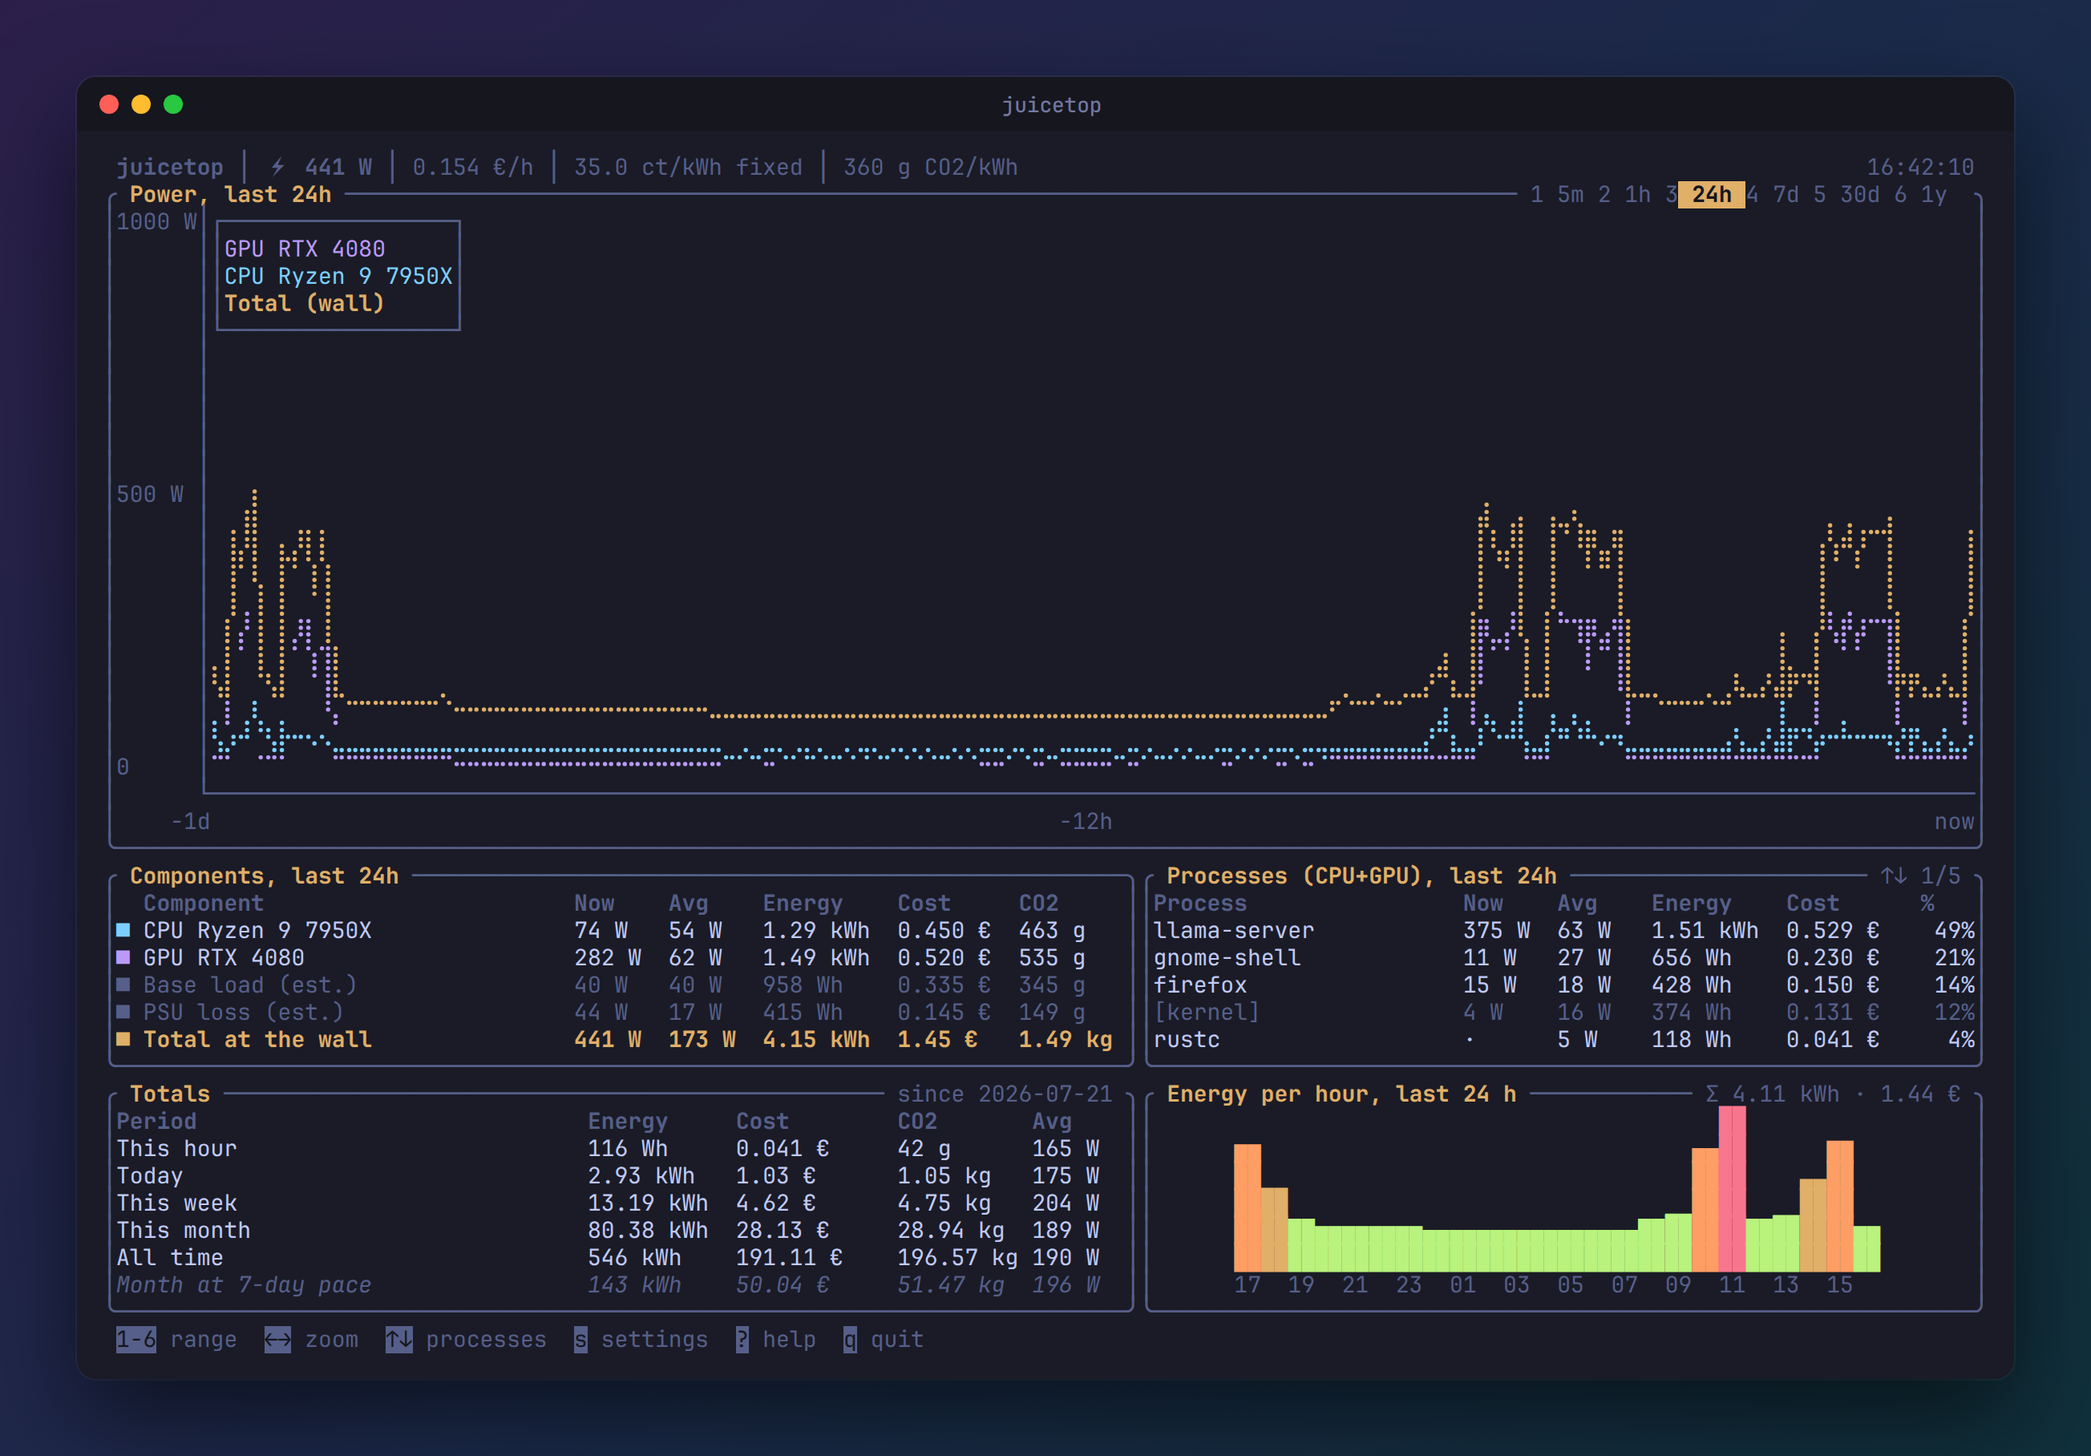
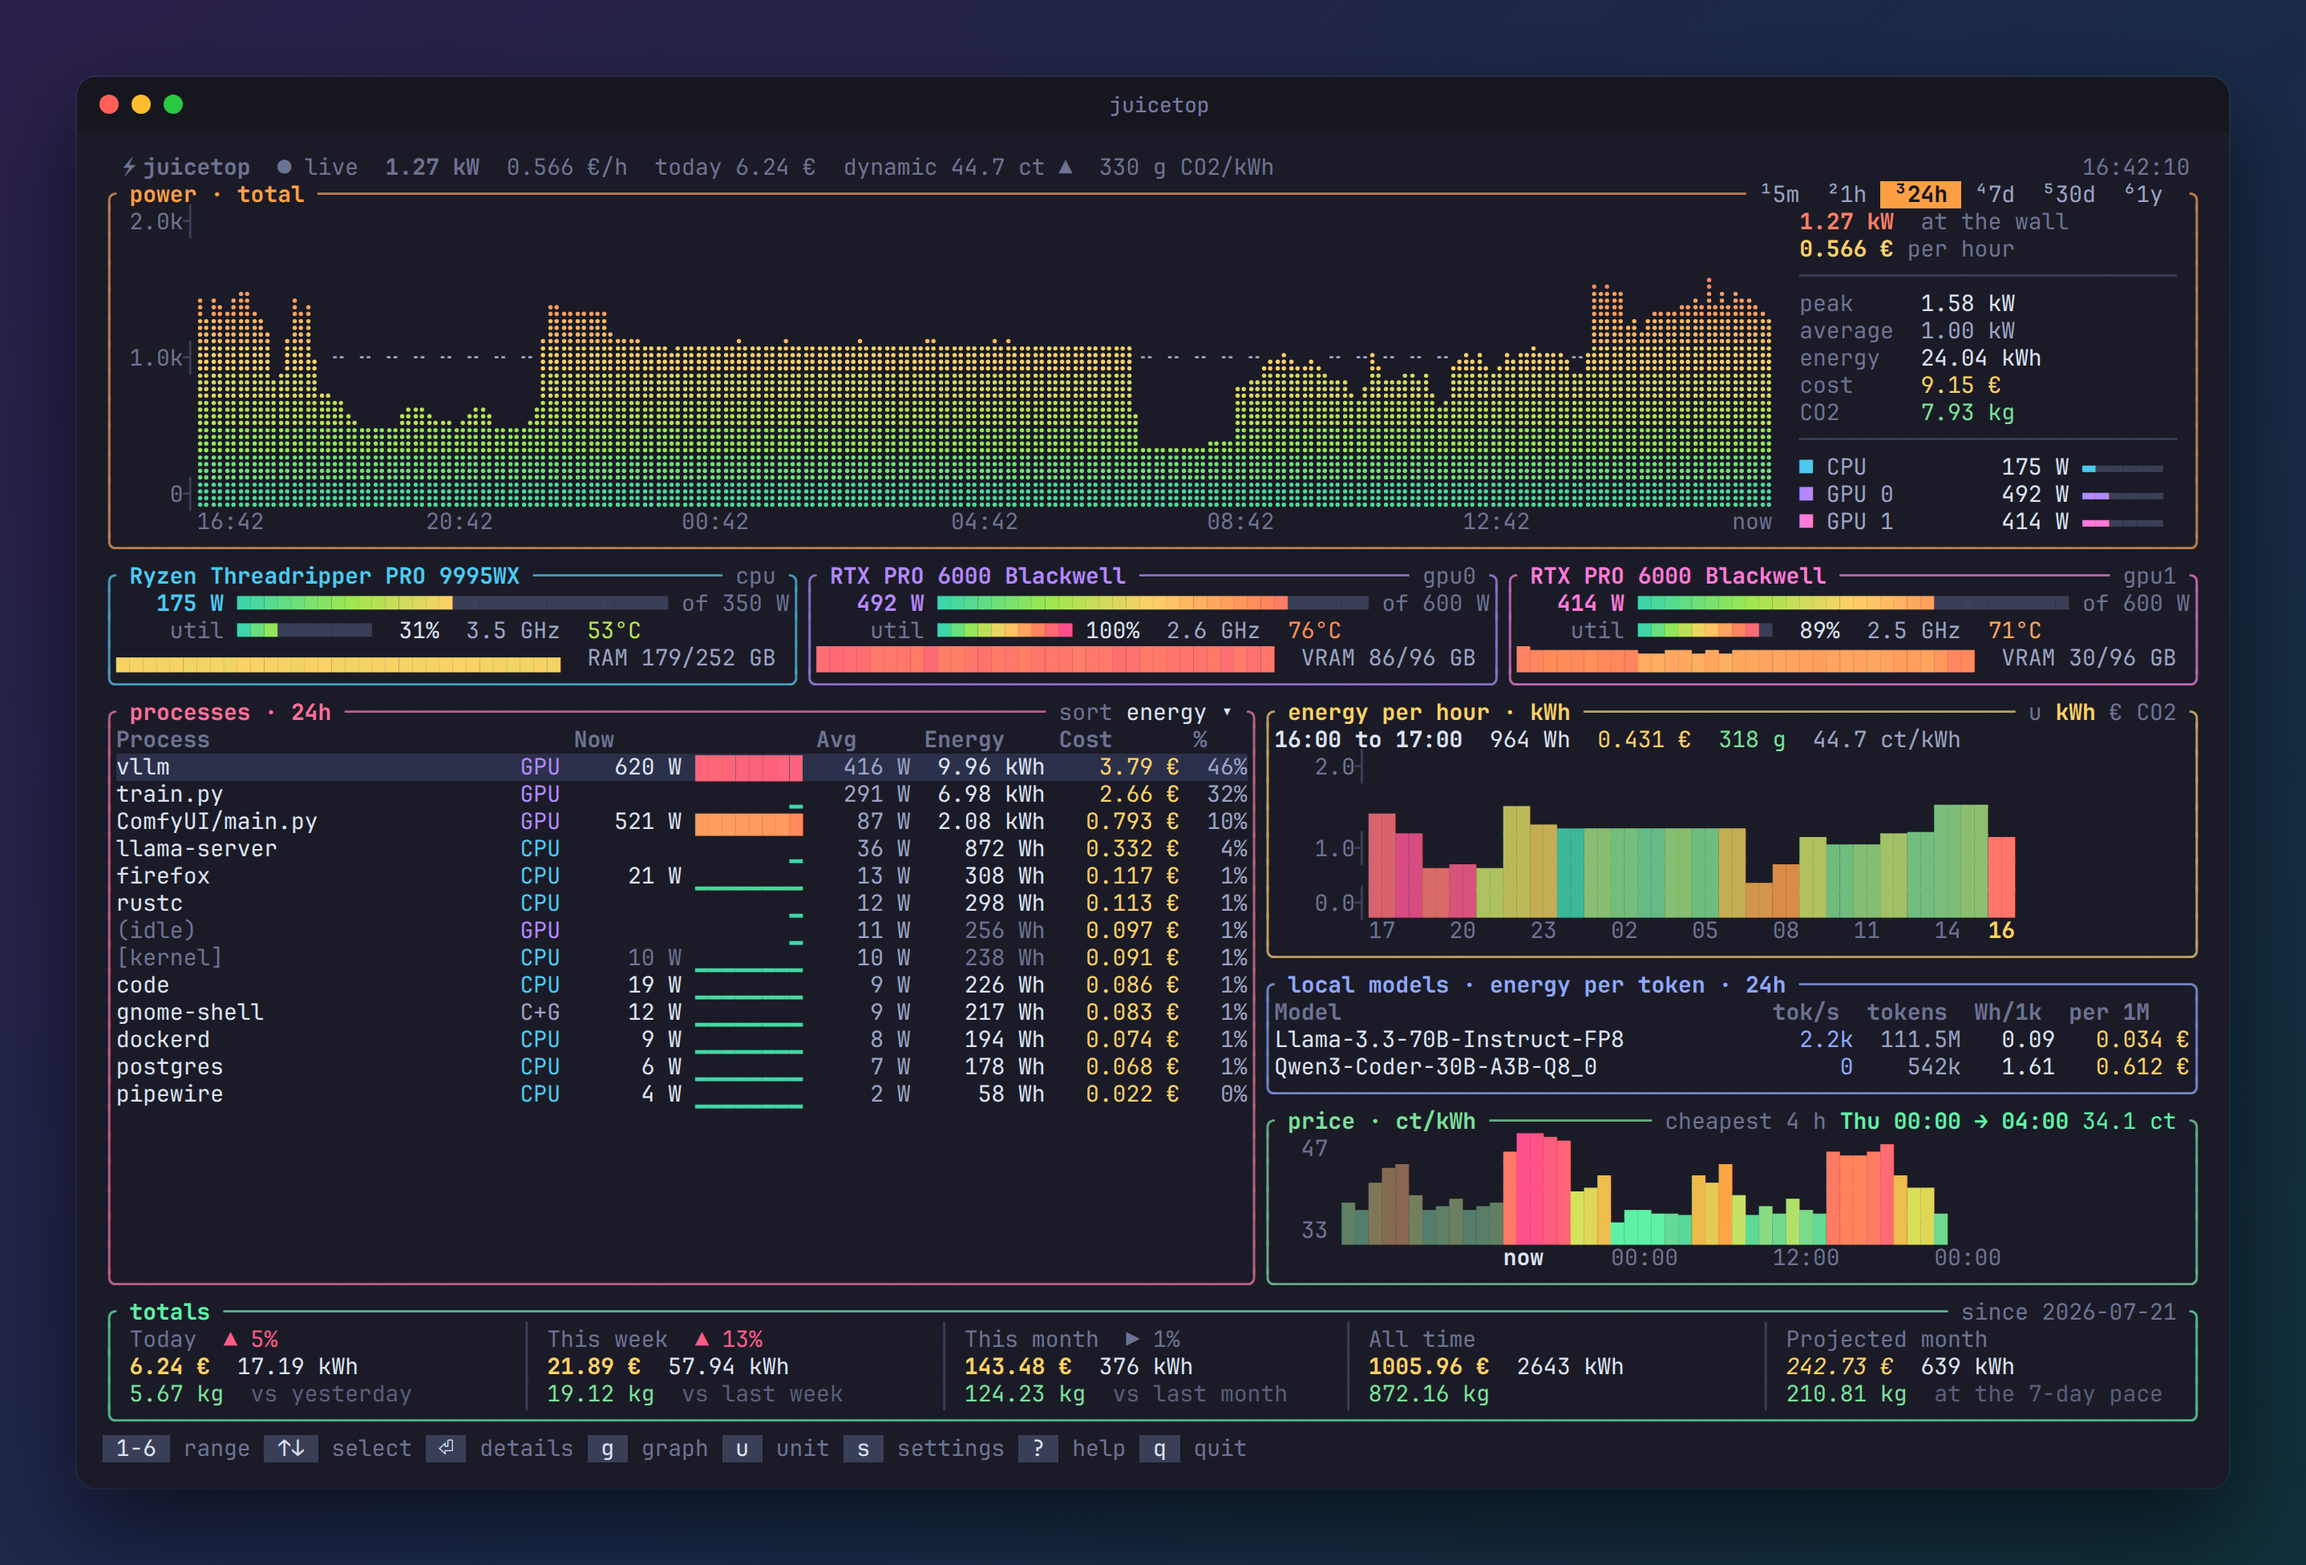
docs: update the screenshots

Changed region(s): [[0.0311, 0.0308, 0.9628, 0.9559]]

diff --git a/examples/screenshots.rs b/examples/screenshots.rs
@@ -9,46 +9,24 @@ use std::fmt::Write as _;
 use std::path::PathBuf;
 
 use juicetop::config::PriceMode;
-use juicetop::pricing::{Interval, PriceTable};
 use juicetop::tui::{self, App};
 use ratatui::buffer::Buffer;
 use ratatui::crossterm::event::{KeyCode, KeyEvent, KeyModifiers};
 use ratatui::style::{Color, Modifier};
 use unicode_width::UnicodeWidthStr;
 
-/// Wednesday, 2026-11-18, 16:42:10 CET: a working afternoon with the LLM server busy.
+/// Wednesday, 2026-11-18, 16:42:10 CET: a working afternoon.
 const NOW: i64 = 1_795_016_530;
-const COLS: u16 = 140;
-const ROWS: u16 = 44;
+const COLS: u16 = 156;
+const ROWS: u16 = 48;
 
 fn key(app: &mut App, c: KeyCode) {
     app.on_key(KeyEvent::new(c, KeyModifiers::NONE));
 }
 
-/// Plausible day-ahead prices: cheap at night and midday, expensive in the evening peak.
-fn market() -> PriceTable {
-    let mut t = PriceTable::default();
-    let start = NOW - NOW.rem_euclid(3600) - 125 * 86_400;
-    t.merge((0..130 * 24).map(|h| {
-        let s = start + h * 3600;
-        let hour = ((s + 3600) / 3600) % 24;
-        let eur = match hour {
-            0..=5 => 70.0,
-            6..=8 => 125.0,
-            9..=15 => 85.0,
-            16..=20 => 165.0,
-            _ => 105.0,
-        } + ((h * 37) % 23) as f64;
-        Interval {
-            start: s,
-            end: s + 3600,
-            eur_per_mwh: eur,
-        }
-    }));
-    t
-}
-
 fn main() -> anyhow::Result<()> {
+    // SAFETY: set before any other thread exists.
+    unsafe { std::env::set_var("JUICETOP_TRUECOLOR", "1") };
     let out = PathBuf::from(
         std::env::args()
             .nth(1)
@@ -60,39 +38,45 @@ fn main() -> anyhow::Result<()> {
 
     let new_app = || {
         let mut app = App::new(cfg.clone(), data.path().join("config.toml"));
+        app.cfg.price.mode = PriceMode::Dynamic;
+        app.set_market(juicetop::demo::market(NOW));
         app.set_clock(NOW);
+        app.tick();
+        app.prefill_proc_history(juicetop::demo::proc_history(NOW, 120));
         app
     };
 
-    let mut app = new_app();
-    key(&mut app, KeyCode::Char('3'));
+    let app = new_app();
     write(&out, "dashboard", &tui::render(&app, COLS, ROWS))?;
 
     let mut app = new_app();
-    key(&mut app, KeyCode::Char('5'));
-    write(&out, "month", &tui::render(&app, COLS, ROWS))?;
+    key(&mut app, KeyCode::Char('4'));
+    key(&mut app, KeyCode::Char('g'));
+    key(&mut app, KeyCode::Char('u'));
+    key(&mut app, KeyCode::Char('c'));
+    write(&out, "week", &tui::render(&app, COLS, ROWS))?;
 
     let mut app = new_app();
-    app.cfg.price.mode = PriceMode::Dynamic;
-    app.set_market(market());
-    key(&mut app, KeyCode::Char('2'));
-    key(&mut app, KeyCode::Char('s'));
-    write(&out, "settings", &tui::render(&app, COLS, ROWS))?;
+    key(&mut app, KeyCode::Enter);
+    write(&out, "detail", &tui::render(&app, COLS, ROWS))?;
+
+    let mut app = new_app();
+    app.start_setup();
+    key(&mut app, KeyCode::Enter);
+    key(&mut app, KeyCode::Right);
+    key(&mut app, KeyCode::Right);
+    write(&out, "setup", &tui::render(&app, COLS, ROWS))?;
 
     println!("wrote {}", out.display());
     Ok(())
 }
 
 /// Tokyo Night inspired palette for the terminal colors the TUI uses.
-fn rgb(c: Color, fg: bool) -> &'static str {
-    match c {
-        Color::Reset => {
-            if fg {
-                "#c0caf5"
-            } else {
-                "transparent"
-            }
-        }
+fn rgb(c: Color, fg: bool) -> String {
+    let named = match c {
+        Color::Rgb(r, g, b) => return format!("#{r:02x}{g:02x}{b:02x}"),
+        Color::Reset if fg => "#c0caf5",
+        Color::Reset => "transparent",
         Color::Black => "#15161e",
         Color::Red => "#f7768e",
         Color::Green => "#9ece6a",
@@ -108,9 +92,9 @@ fn rgb(c: Color, fg: bool) -> &'static str {
         Color::LightBlue => "#8db0ff",
         Color::LightMagenta => "#c7a9ff",
         Color::LightCyan => "#b4f9f8",
-        Color::White => "#c0caf5",
         _ => "#c0caf5",
-    }
+    };
+    named.to_string()
 }
 
 /// Braille cells drawn as dots, so the graphs look as dense as in a real terminal.
@@ -120,7 +104,7 @@ fn braille(sym: &str, color: &str) -> Option<String> {
         return None;
     }
     let bits = c - 0x2800;
-    // Unicode braille bit order: dots 1,2,3 left column, 4,5,6 right, 7 and 8 the bottom row.
+    // Unicode braille bit order: dots 1, 2, 3 left column, 4, 5, 6 right, 7 and 8 the bottom row.
     let dots = [
         (0, 0),
         (0, 1),
@@ -134,12 +118,8 @@ fn braille(sym: &str, color: &str) -> Option<String> {
     let mut svg = String::from("<svg width='8.4' height='17' style='display:block'>");
     for (i, (col, row)) in dots.iter().enumerate() {
         if bits & (1 << i) != 0 {
-            let _ = write!(
-                svg,
-                "<circle cx='{}' cy='{}' r='1.35' fill='{color}'/>",
-                2.3 + *col as f64 * 3.8,
-                2.3 + *row as f64 * 4.15
-            );
+            let (x, y) = (2.3 + *col as f64 * 3.8, 2.3 + *row as f64 * 4.15);
+            let _ = write!(svg, "<circle cx='{x}' cy='{y}' r='1.35' fill='{color}'/>");
         }
     }
     svg.push_str("</svg>");
@@ -175,7 +155,7 @@ fn write(dir: &std::path::Path, name: &str, buf: &Buffer) -> anyhow::Result<()> 
             if w == 2 {
                 style.push_str("width:1.2em;");
             }
-            let text = match braille(sym, rgb(cell.fg, true)) {
+            let text = match braille(sym, &rgb(cell.fg, true)) {
                 Some(svg) => svg,
                 None if sym.trim().is_empty() => "&nbsp;".to_string(),
                 None => escape(sym),
